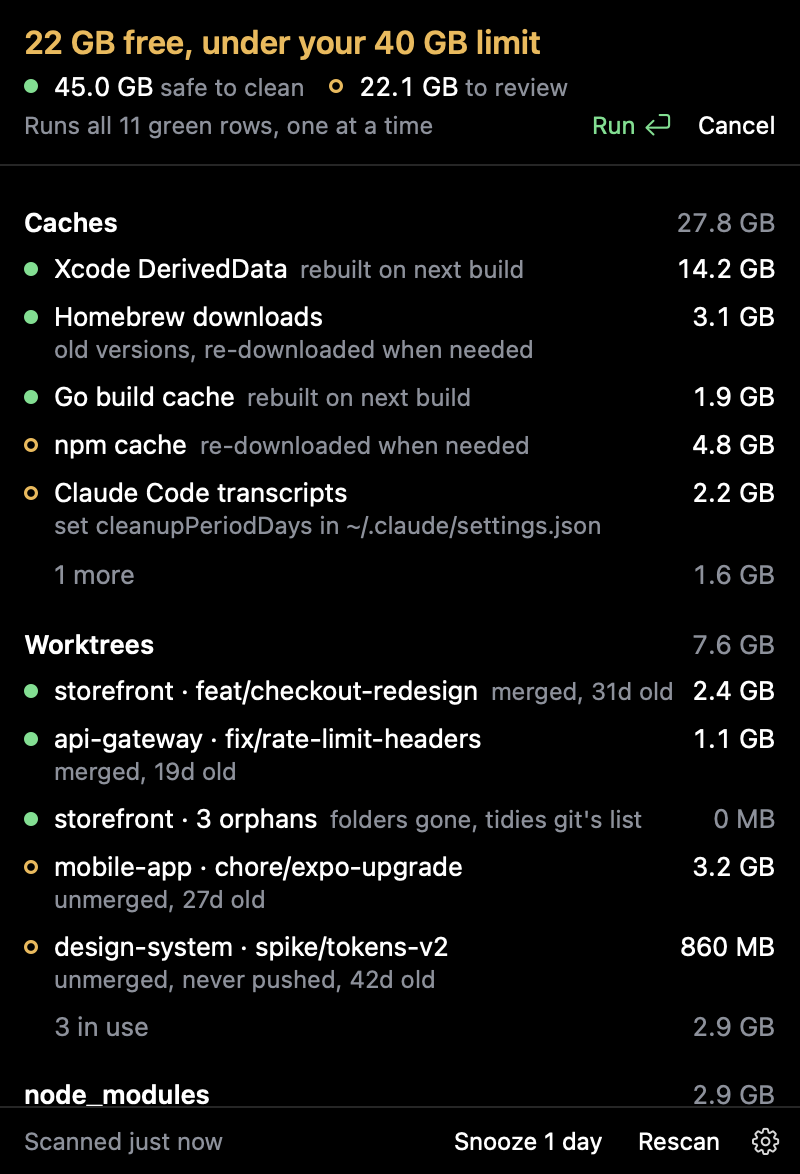
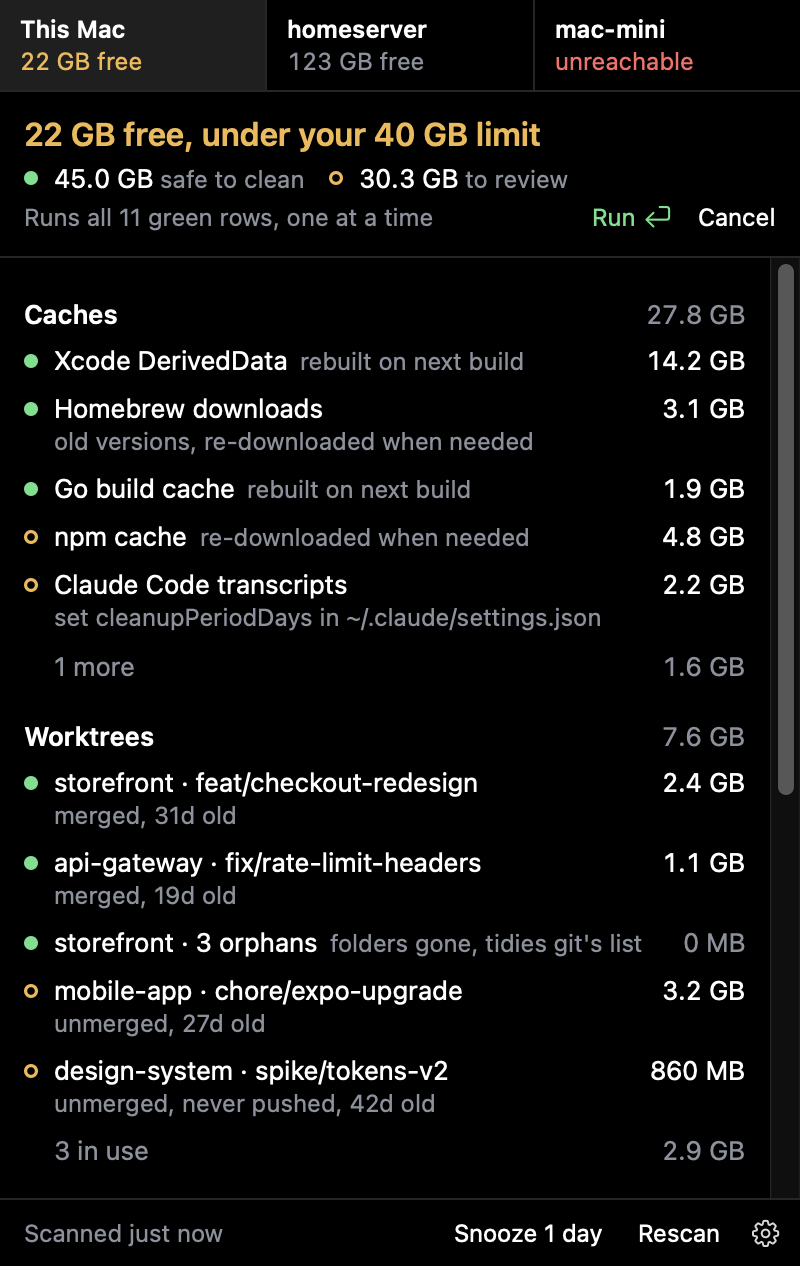
docs: retake README screenshots with devices and per-volume Docker rows (#12)
Every popover shot now shows the device strip, the made-up report gets
the per-volume Docker rows from #10, and Settings shows Remove device.
The separate devices shot is gone since the strip is in every shot.

diff --git a/README.md b/README.md
@@ -4,22 +4,18 @@ A macOS menu bar app that watches free disk space and finds what agent coding le
 
 <img src="docs/screenshots/menubar.png" alt="Menu bar label showing 22G free in amber" height="24">
 
-| Popover | Click a row to see the command, then Run |
+| Popover, with other devices in a strip on top | Click a row to see the command, then Run |
 |---|---|
-| <img src="docs/screenshots/overview.png" alt="Popover listing caches and worktrees with sizes and verdicts" width="400"> | <img src="docs/screenshots/confirm.png" alt="A merged worktree opened to show its git worktree remove command and Run" width="400"> |
+| <img src="docs/screenshots/overview.png" alt="Popover with a strip of devices (This Mac 22 GB free, homeserver 123 GB free, mac-mini unreachable) above caches and worktrees with sizes and verdicts" width="400"> | <img src="docs/screenshots/confirm.png" alt="A merged worktree opened to show its git worktree remove command and Run" width="400"> |
 
 | Clean all safe rows at once | In-use rows clean too, forcing behind a warning |
 |---|---|
 | <img src="docs/screenshots/clean-safe.png" alt="Header asking to run all green rows one at a time, with Run and Cancel" width="400"> | <img src="docs/screenshots/force.png" alt="A worktree with uncommitted changes opened to show a red warning and a git worktree remove --force command" width="400"> |
 
-| Other devices sit in a strip above the list |
-|---|
-| <img src="docs/screenshots/devices.png" alt="A strip of three devices above the list: This Mac 22 GB free, homeserver 123 GB free, mac-mini unreachable" width="400"> |
-
 <details>
 <summary>Every section, with in-use rows shown and a clean running</summary>
 
-<img src="docs/screenshots/full-list.png" alt="Full popover: caches, worktrees, node_modules and Docker, with kept rows listed" width="400">
+<img src="docs/screenshots/full-list.png" alt="Full popover: caches, worktrees, node_modules and Docker with a row per volume, with kept rows listed" width="400">
 
 </details>
 
@@ -93,7 +89,7 @@ That also writes the menu bar label to `/tmp/popover-menubar.png`. Pass `none` i
 ./scripts/screenshots.sh   # regenerate docs/screenshots
 ```
 
-The README images come from `scripts/screenshots/report.json`, a made-up report, so no real paths ship. Each `scripts/screenshots/states/<name>.json` is a state file as above and renders to `docs/screenshots/<name>.png`; add one to add a shot. Rerun the script after UI changes.
+The README images come from `scripts/screenshots/report.json`, a made-up report, so no real paths ship. Each `scripts/screenshots/states/<name>.json` is a state file as above and renders to `docs/screenshots/<name>.png`; add one to add a shot. Rerun the script after UI changes. It needs Xcode's toolchain, as the Command Line Tools lack SwiftUI's macro plugin: `DEVELOPER_DIR=/Applications/Xcode.app/Contents/Developer ./scripts/screenshots.sh` if `xcode-select -p` points at CommandLineTools.
 
 ## Verdicts
 
@@ -179,7 +175,7 @@ If a device shows as unreachable, its header says why:
 
 Everything below is editable in Settings (the gear, then Settings…): General holds open at login and the scan intervals, then each machine has its own page with its free-space limit, project folders, a connection test and Remove (or right-click it in the list). Devices are added there from your tailnet peers or by name; a pasted URL such as `https://homeserver.<tailnet>.ts.net/` is trimmed to its host.
 
-<img src="docs/screenshots/settings.png" alt="Settings window: General and a list of machines on the left, homeserver's page on the right with status, host, its own 20 GB limit, two project folders, Test connection and Remove" width="560">
+<img src="docs/screenshots/settings.png" alt="Settings window: General and a list of machines on the left, homeserver's page on the right with status, host, its own 20 GB limit, two project folders, Test connection and Remove device" width="560">
 
 Settings saves to `~/.config/hoarder/config.json` as you change things, writing only what differs from the defaults. Hand edits still work and apply within a minute. While the file does not parse, Settings shows the error and stays read-only, so it never overwrites what you typed. Every key is optional; Open config.json in General writes the defaults if the file is missing.
 
